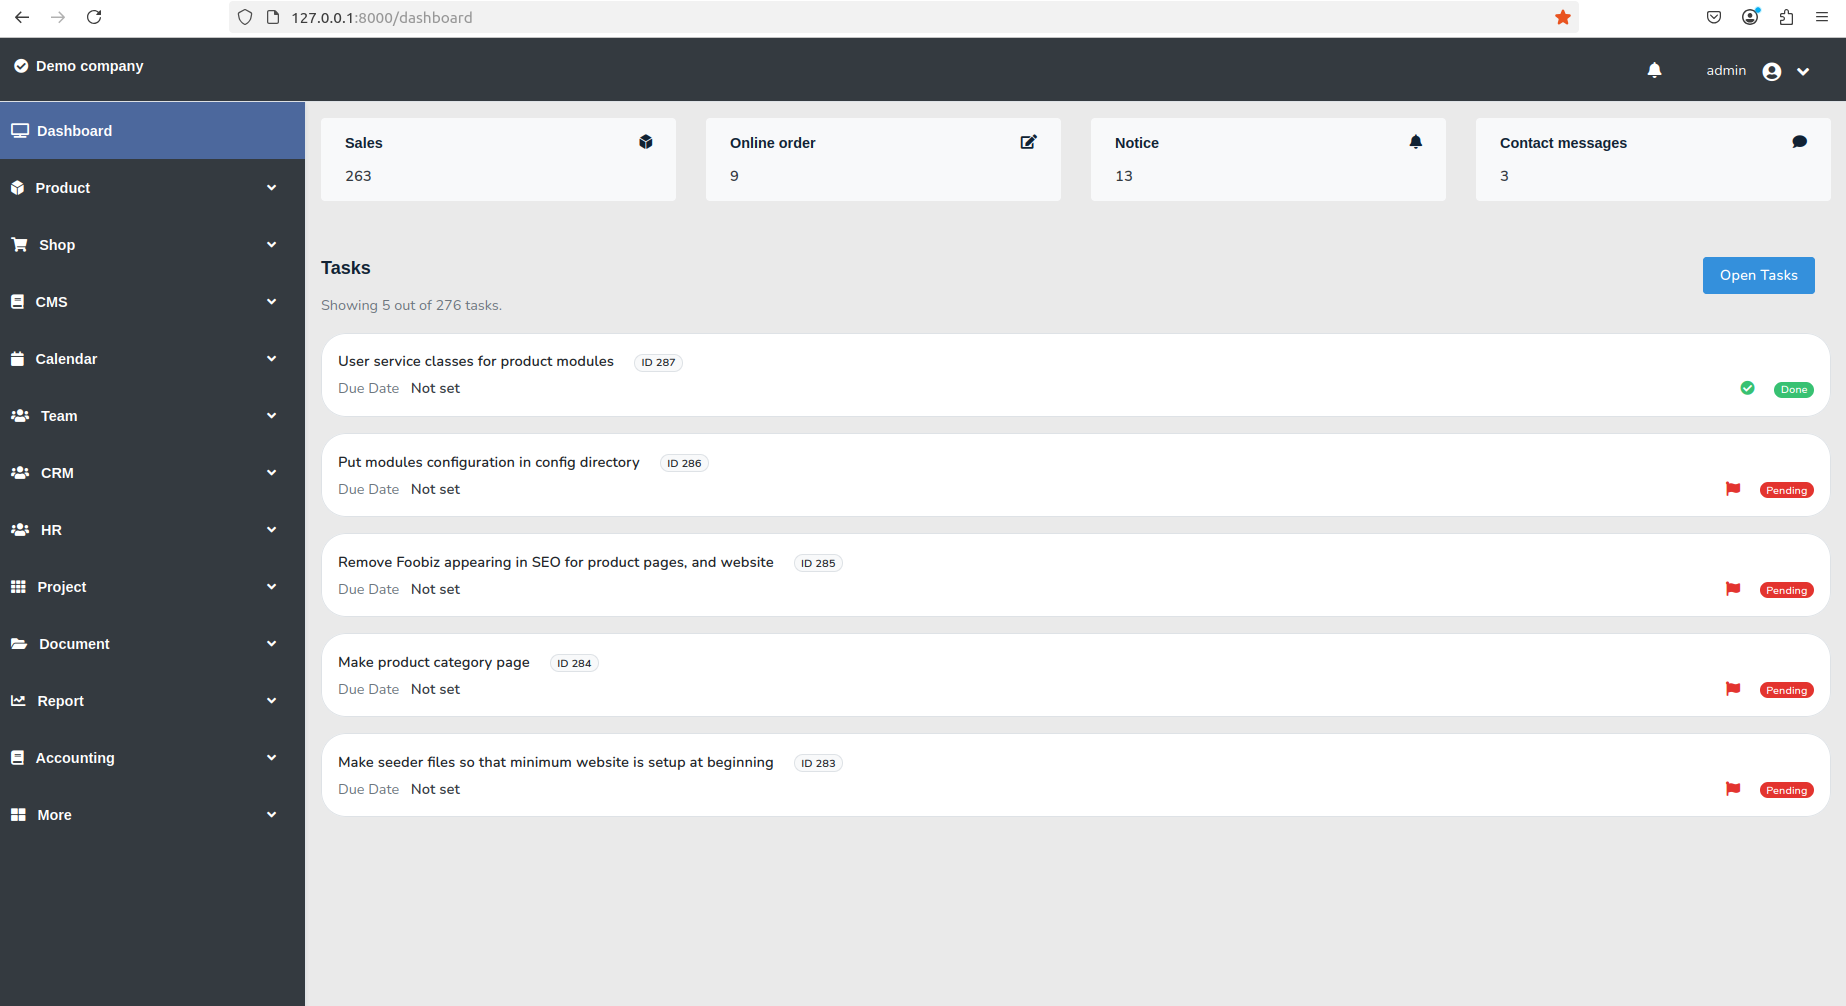
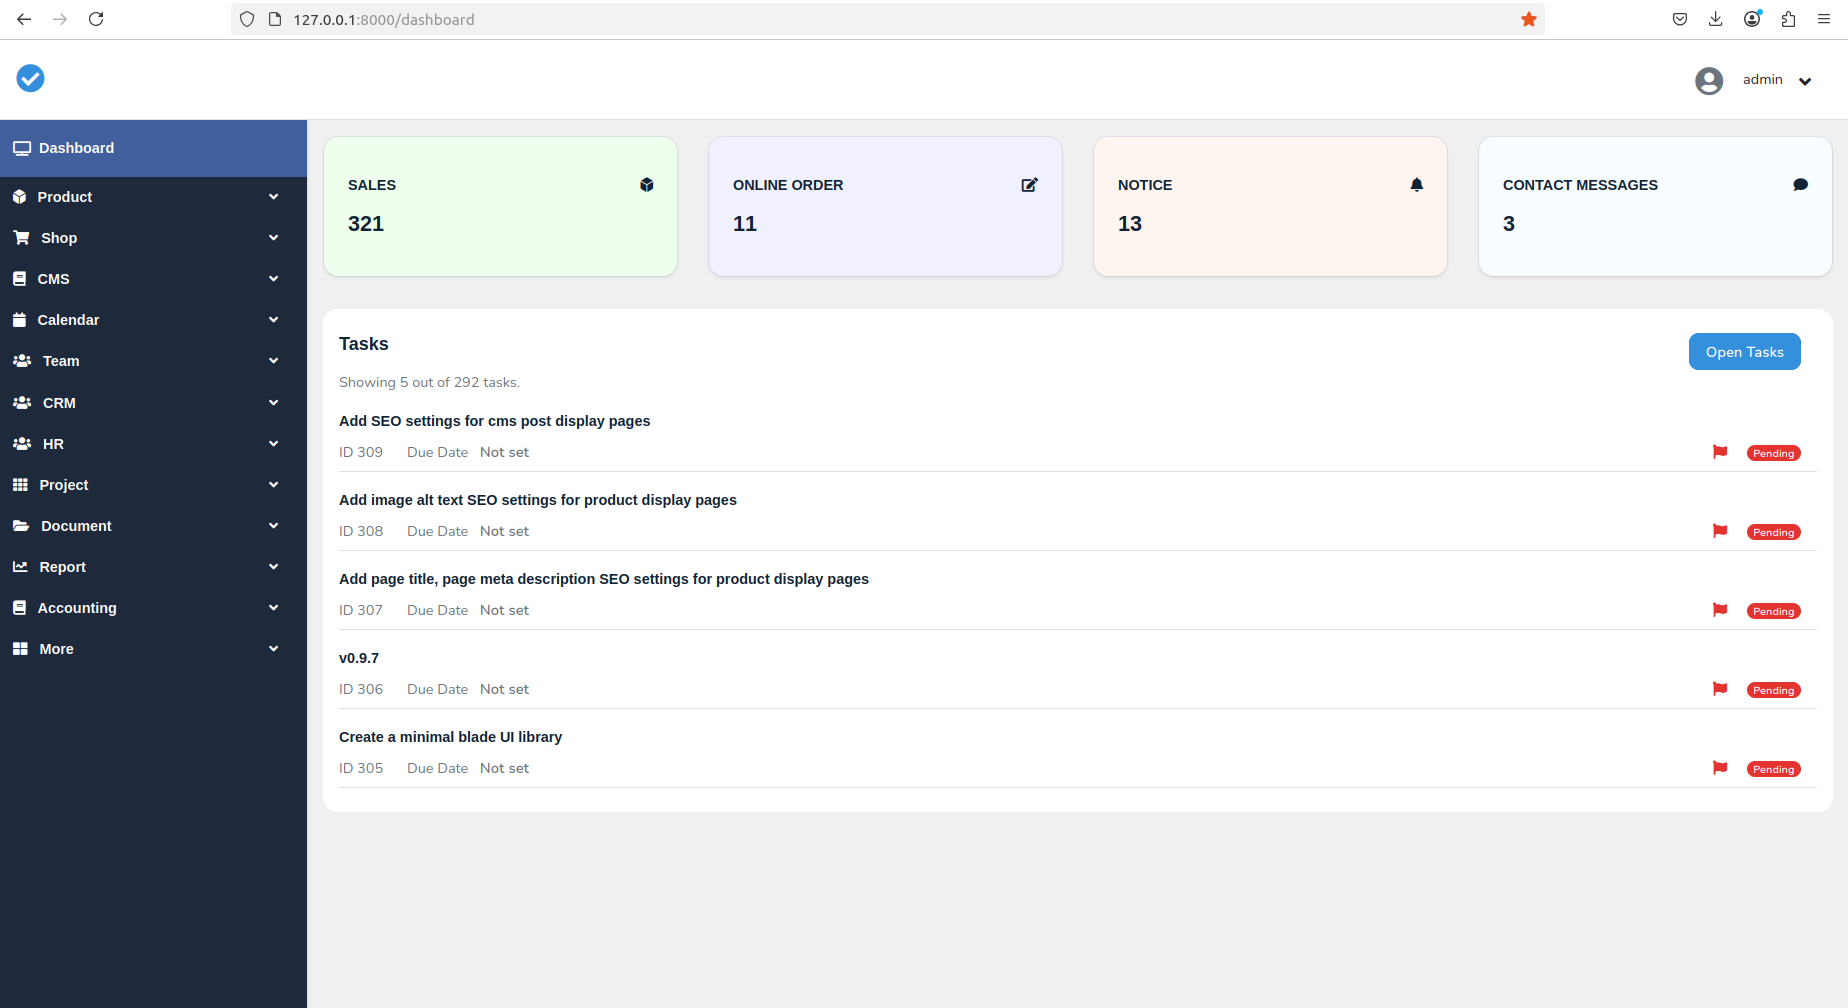
Reorganizing dashboard left menu; Misc UI updates

diff --git a/resources/views/livewire/dashboard/app-left-menu.blade.php b/resources/views/livewire/dashboard/app-left-menu.blade.php
@@ -150,18 +150,6 @@
                 ])
             @include ('partials.dashboard.app-left-menu-button',
                 [
-                    'btnRoute' => 'customer',
-                    'iconFaClass' => 'fas fa-users',
-                    'btnText' => 'Customer',
-                ])
-            @include ('partials.dashboard.app-left-menu-button',
-            [
-              'btnRoute' => 'dashboard-vendor',
-              'iconFaClass' => 'fas fa-users',
-              'btnText' => 'Vendors',
-            ])
-            @include ('partials.dashboard.app-left-menu-button',
-                [
                     'btnRoute' => 'online-order',
                     'iconFaClass' => 'fas fa-cloud-download-alt',
                     'btnText' => 'Online order',
@@ -363,6 +351,18 @@
         --}}
         <div class="p-3 mb-3">
           <div class="py-3" style="background-color: rgba(0, 0, 0, 0.2); border-radius: 15px;">
+            @include ('partials.dashboard.app-left-menu-button',
+                [
+                    'btnRoute' => 'customer',
+                    'iconFaClass' => 'fas fa-users',
+                    'btnText' => 'Customer',
+                ])
+            @include ('partials.dashboard.app-left-menu-button',
+            [
+              'btnRoute' => 'dashboard-vendor',
+              'iconFaClass' => 'fas fa-users',
+              'btnText' => 'Vendors',
+            ])
             @include ('partials.dashboard.app-left-menu-button', [
               'btnRoute' => 'dashboard-contact-form',
               'iconFaClass' => 'fas fa-sms',

diff --git a/app/Livewire/Dashboard/AppLeftMenu.php b/app/Livewire/Dashboard/AppLeftMenu.php
@@ -43,9 +43,7 @@ class AppLeftMenu extends Component
         } else if (
             $uri == '/dashboard/sale' ||
             $uri == '/dashboard/cafesale' ||
-            $uri == '/dashboard/customer' ||
             $uri == '/dashboard/purchase' ||
-            $uri == '/dashboard/vendor' ||
             $uri == '/dashboard/expense' ||
             $uri == '/dashboard/onlineorder' ||
             $uri == '/dashboard/sale-quotation'
@@ -77,6 +75,8 @@ class AppLeftMenu extends Component
         ) {
             $this->enterModeSilent('calendar');
         } else if (
+            $uri == '/dashboard/customer' ||
+            $uri == '/dashboard/vendor' ||
             $uri == '/dashboard/contact-form' ||
             $uri == '/dashboard/appointment' ||
             $uri == '/dashboard/newsletter-subscription' ||

diff --git a/resources/views/partials/dashboard/app-left-menu-button-lw.blade.php b/resources/views/partials/dashboard/app-left-menu-button-lw.blade.php
@@ -14,14 +14,14 @@
     @else
       bg-dark
     @endisset
-    m-0 py-3 w-100 text-left rounded-0 font-weight-bold o-heading
+    m-0 py-2 pt-3-rm w-100 text-left rounded-0 font-weight-bold o-heading
     {{ config('app.app_menu_dropdown_button_text_color') }}
     text-white-rm
     "
     wire:click="{{ $btnClickMethod }}" wire:key="{{ rand() . $btnCheckMode }}">
   <div class="d-flex justify-content-between">
     <div>
-      <i class="{{ $btnIconFaClass }} mr-2"></i>
+      <i class="{{ $btnIconFaClass }} mr-2" style="@isset($iconColor) color: {{ $iconColor }} @endisset"></i>
       {{ $btnText }}
       <div class="ml-5 p-0" wire:loading wire:target="{{ $btnClickMethod }}">
         <span class="spinner-border spinner-border-sm text-primary" role="status">

diff --git a/resources/views/livewire/todo/dashboard/todo-glance.blade.php b/resources/views/livewire/todo/dashboard/todo-glance.blade.php
@@ -20,14 +20,14 @@
   </div>
 
   @foreach ($todos as $todo)
-    <div class="py-3 border my-3 bg-white">
-      <div class="px-3 mb-1">
+    <div class="py-2 border-bottom my-2 bg-white">
+      <div class="px-3-rm mb-1">
         <div class="o-heading mb-2">
         {{ $todo->title }}
         </div>
       </div>
       <div class="d-flex justify-content-between">
-        <div class="px-3">
+        <div class="px-3-rm">
           <div class="d-flex text-muted">
             <div class="mr-2">
               ID
